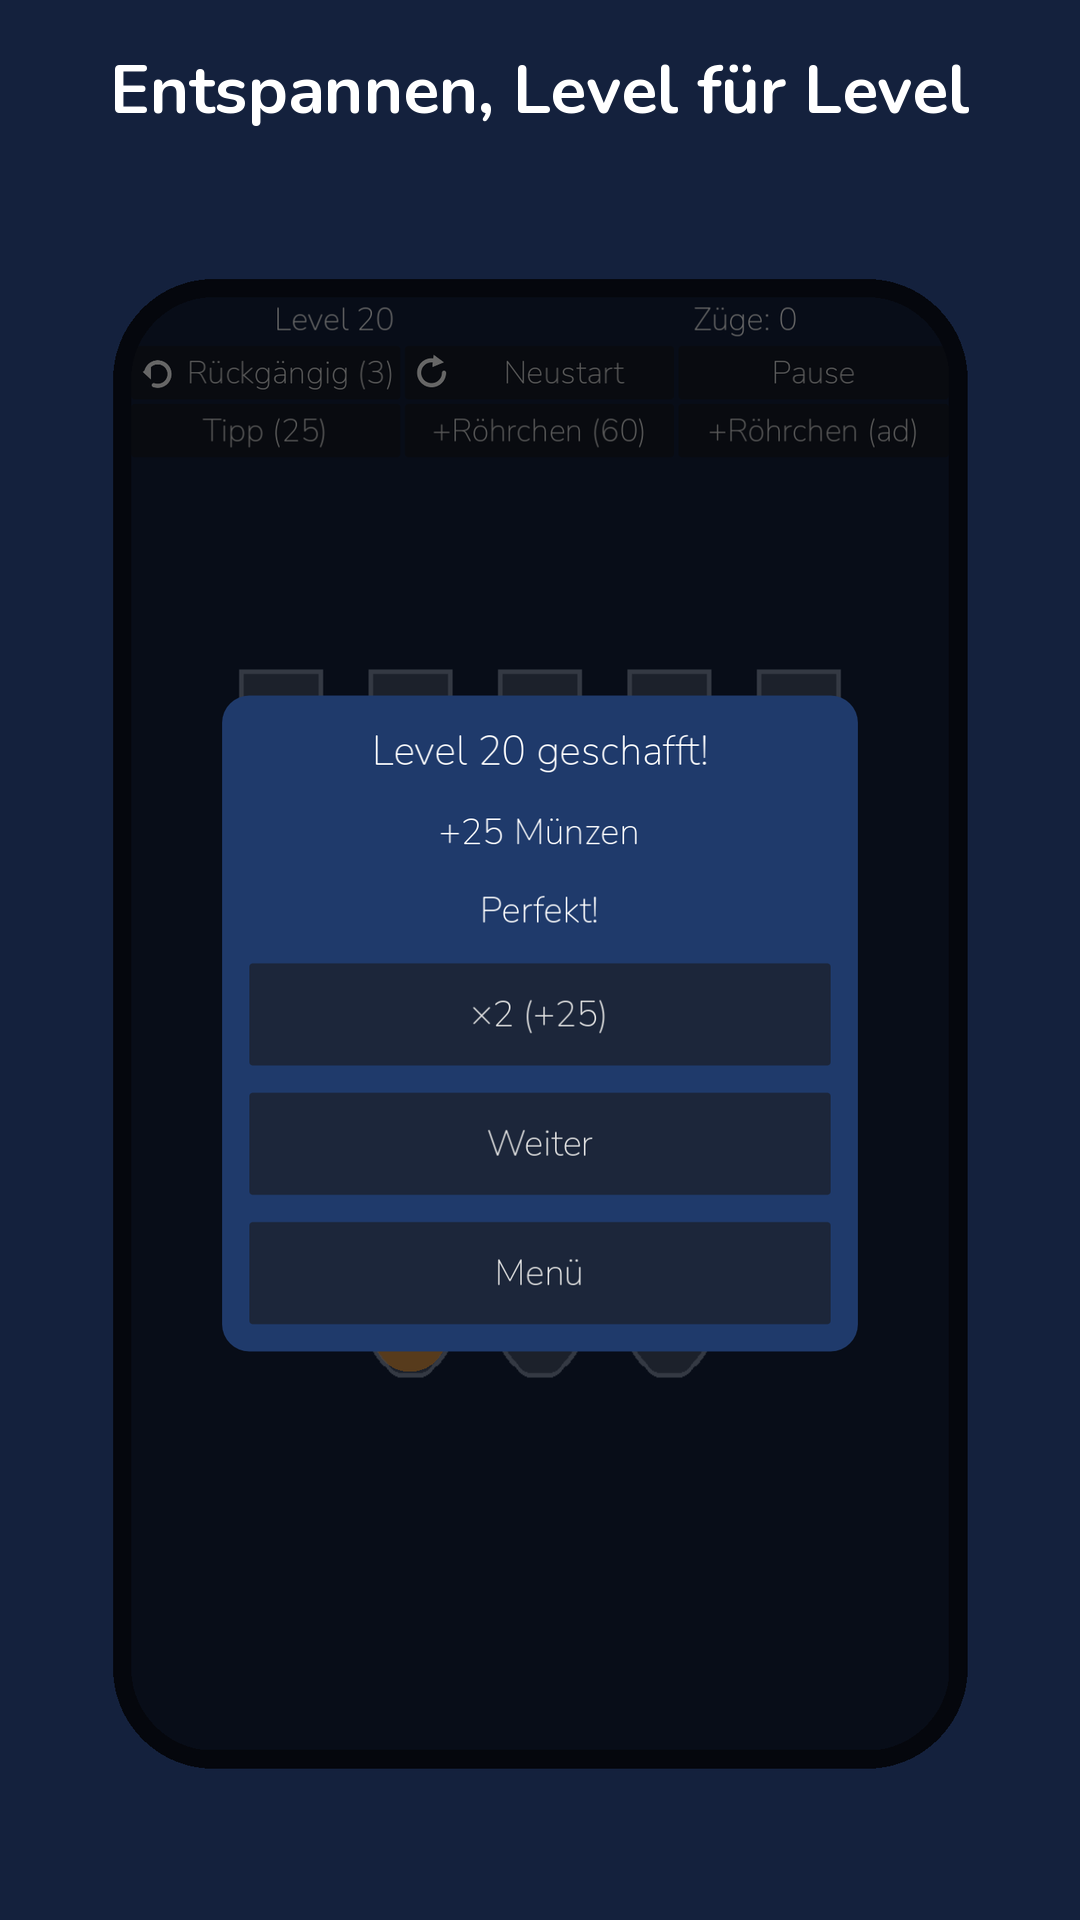
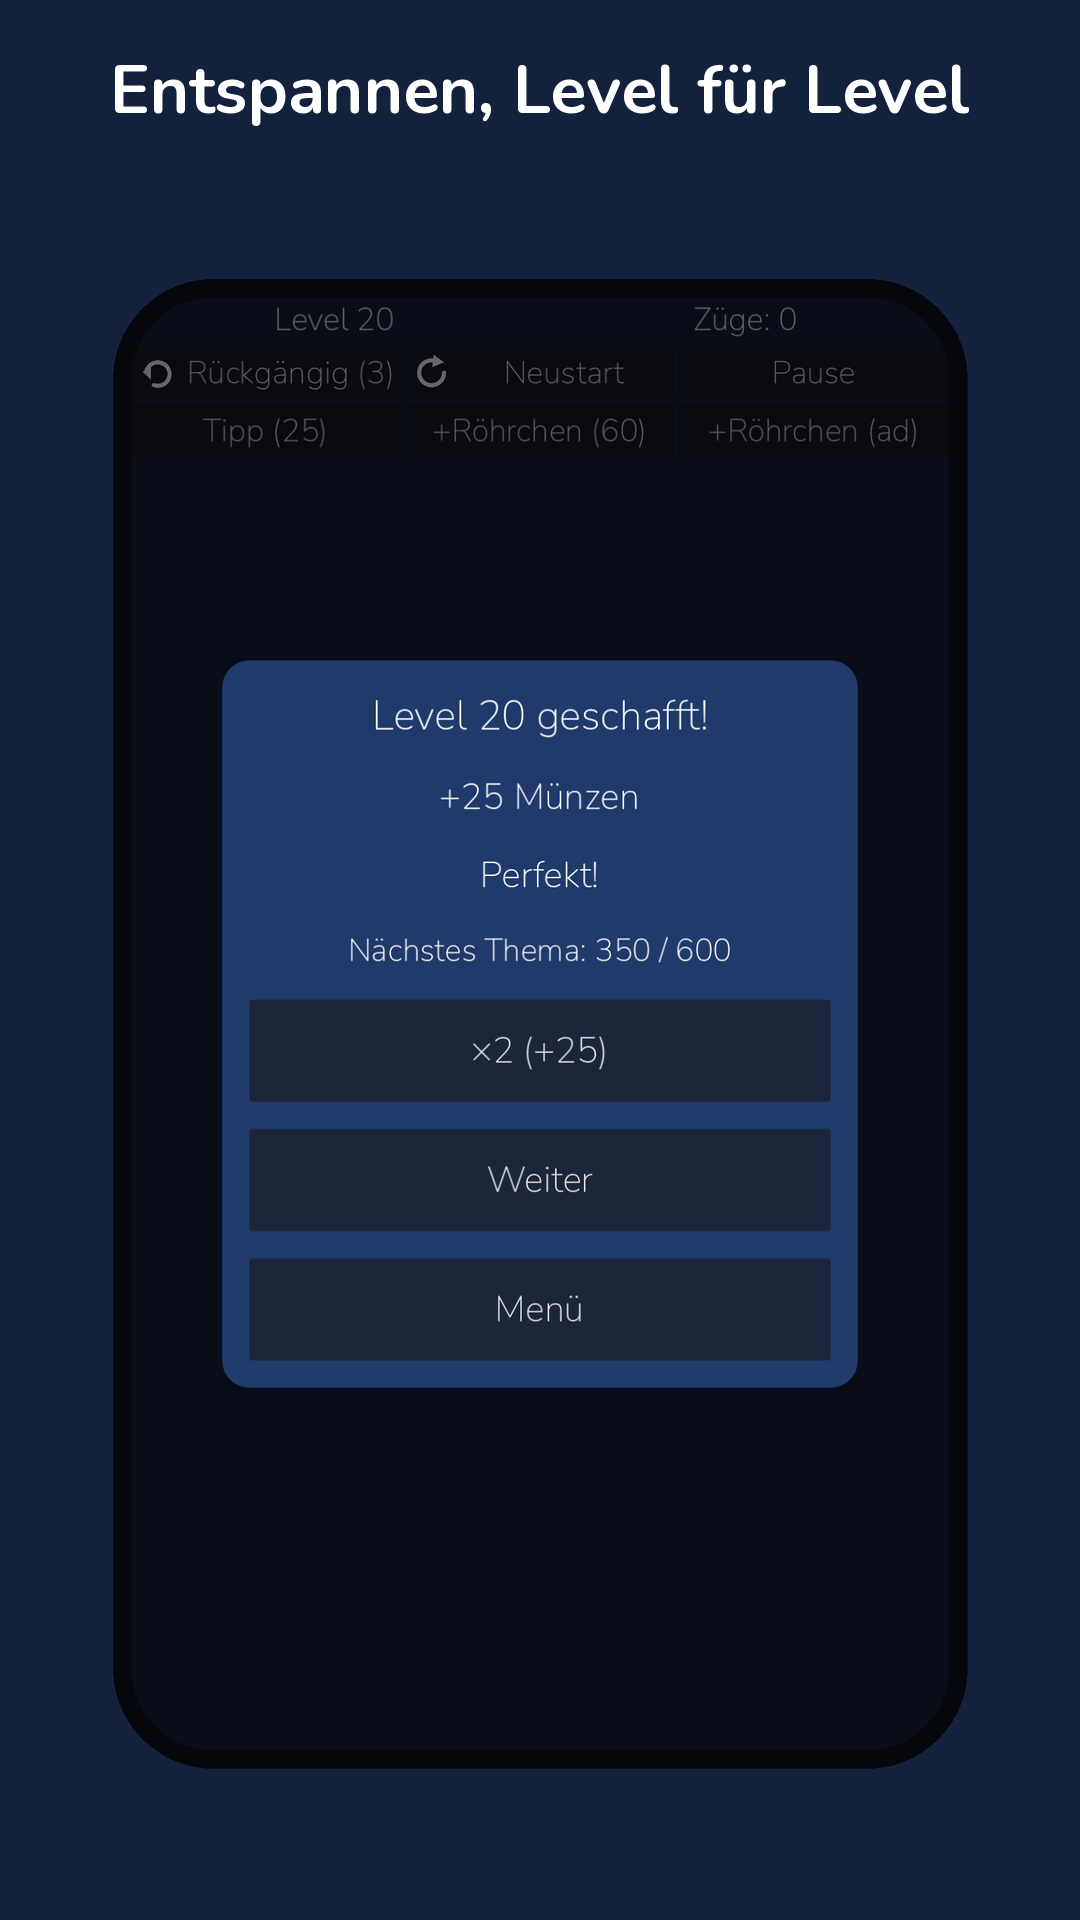
feat(T-096): LevelComplete — „Następny poziom: +1 kolor” albo postęp do motywu (#81)
* chore(T-085): start

Claude-Session: https://claude.ai/code/session_01Q1bYwEEaBcVVCpna3di32Y

* feat(T-085): ConsentFlow — błąd request_consent_info_update → consent:ump:error, start niespersonalizowany bez formularza; FakeConsentProvider.info_update_ok

Claude-Session: https://claude.ai/code/session_01Q1bYwEEaBcVVCpna3di32Y

* chore(T-085): review → PR #76, LOG

Claude-Session: https://claude.ai/code/session_01Q1bYwEEaBcVVCpna3di32Y

* chore: backlog refill #5 — Faza 5 prep III (6 zadań P1, 4 P2), T-075…T-084 do Done, GDD Analityka, STATUS sesji #8

Claude-Session: https://claude.ai/code/session_01Q1bYwEEaBcVVCpna3di32Y

* chore(T-093): start

Claude-Session: https://claude.ai/code/session_01Q1bYwEEaBcVVCpna3di32Y

* feat(T-093): pauza jako level:pause zamiast level:fail:quit; porzucony snapshot jako level:fail:abandon (App._discard_snapshot)

Claude-Session: https://claude.ai/code/session_01Q1bYwEEaBcVVCpna3di32Y

* chore(T-094): start

Claude-Session: https://claude.ai/code/session_01Q1bYwEEaBcVVCpna3di32Y

* feat(T-094): GameRound.elapsed_s (serializowany, sumowany przez wznowienia) + eventy level:complete:<perfect|normal>/undos/boosters

Claude-Session: https://claude.ai/code/session_01Q1bYwEEaBcVVCpna3di32Y

* chore(T-095): start

Claude-Session: https://claude.ai/code/session_01Q1bYwEEaBcVVCpna3di32Y

* feat(T-095): lejek FTUE — tutorial:step:<n> raz na rundę + tutorial:reset przy odznaczeniu/błędnym przelewie
[…]

Changed region(s): [[0.1833, 0.3438, 0.7944, 0.75]]

diff --git a/BACKLOG.md b/BACKLOG.md
@@ -36,7 +36,7 @@ Pętla bierze pierwsze `todo` z najwyższej sekcji. Zadania P0 muszą być `done
   KA: `Level` rejestruje `tutorial:step:1` (start tutorialu), `tutorial:step:2` (wejście w `PICK_TARGET`), `tutorial:step:3` (wejście w `FINISH`) — każdy tylko przy pierwszym osiągnięciu w rundzie (pole `_tutorial_max_step`; powtórne `PICK_SOURCE` przy kolejnych przelewach poziomu 1 nie generuje eventów); `tutorial:reset` (value = krok, z którego cofnięto) w `_on_tutorial_deselected`; istniejące `tutorial:done` bez zmian. Testy gdUnit4 z `FakeAnalyticsProvider` ≥ 3: poprawne przejście poziomu 1 → `step:1`, `step:2`, `step:3`, `done` dokładnie po 1× w tej kolejności; odznaczenie w kroku 2 → 1× `tutorial:reset`, bez ponownego `step:1`; poziom 1 przy `tutorial_done == true` → 0 eventów `tutorial:*`. Zgodne z GDD → Analityka `tutorial_step` (refill #5). `make check` zielone. ≤ ~50 linii.
   Skill: `godot-dev` + `analytics-review`
 
-- [ ] T-096 `todo` LevelComplete: komunikat „Następny poziom: +1 kolor” albo postęp do następnego motywu (GDD → Ekrany `LevelComplete`, Sesja hook 4)
+- [ ] T-096 `review` LevelComplete: komunikat „Następny poziom: +1 kolor” albo postęp do następnego motywu (GDD → Ekrany `LevelComplete`, Sesja hook 4) → PR #81
   KA: czysta funkcja statyczna (np. `LevelComplete.progress_message(level_no: int, mode: String, state: GameState) -> Dictionary {key, args}`, bez `Node`): kampania i `ContentGenerator.new().level_params(level_no + 1)["colors"] > level_params(level_no)["colors"]` → klucz `lc_new_color` (EN „Next level: +1 color”, PL „Następny poziom: +1 kolor”, DE „Nächstes Level: +1 Farbe”); w przeciwnym razie `lc_theme_progress` z `[state.coins, ThemeCatalog.next_theme_cost(state)]` (format jak `home_theme_progress`); wszystkie motywy kupione albo tryb daily → `{}` i etykieta ukryta. `LevelComplete.show_result` pokazuje etykietę pod monetami (po ×2 odświeżona). Testy gdUnit4 ≥ 5: poziom 7 → `lc_new_color` (asercja wyliczona z `level_params`, nie z literału); poziom 8 → `lc_theme_progress`; wszystkie motywy kupione → `{}`; daily → `{}`; po `watch_double_coins` monety w etykiecie zaktualizowane. Nowe klucze objęte testem kompletności EN/PL/DE (T-023) i testem „PL/DE ≠ EN” (T-076). Kadr 02 (`make screenshots`, EN/PL/DE) odświeżony i obejrzany (tekst nie nachodzi na przyciski). `make check` zielone. ≤ ~100 linii + PNG.
   Skill: `godot-dev`
 
@@ -114,6 +114,9 @@ Pętla bierze pierwsze `todo` z najwyższej sekcji. Zadania P0 muszą być `done
 - [ ] T-103 `todo` `test_content_generator.gd` → `test_levels_1_to_200_solvable_and_fast`: twardy próg `max_ms <= 500` bywa przekroczony na obciążonej maszynie CI (odkryte w T-093: 543 ms, przy ponownym uruchomieniu OK) — mierzyć medianę/percentyl albo ustawić próg z `GameConfig`/stałej z marginesem; nie osłabiać asercji „rozwiązywalny”. Skill: godot-test
 
 - [ ] T-104 `todo` `Level.elapsed_s` liczy też czas w tle bez zabicia aplikacji (FOCUS_OUT robi snapshot = flush, ale po FOCUS_IN `_round_bound_at` nie jest przestawiane) — przy `NOTIFICATION_APPLICATION_FOCUS_IN` ponownie zakotwiczyć licznik (np. `Level.resume_clock()` wołane z `App._notification`) + test z wstrzykniętym zegarem (odkryte w T-094, QA). Skill: godot-dev
+
+- [ ] T-105 `todo` Kadr sklepowy 02 (`aso_win`): panel LevelComplete (po T-096 wyższy o linię) zakrywa prawie całą planszę — probówki niewidoczne; rozważyć fixture z planszą przesuniętą/mniejszym panelem albo półprzezroczysty panel w kadrze (odkryte w T-096). Skill: aso
+- [ ] T-106 `todo` `make screenshots` przy każdym uruchomieniu zmienia bajty `03_daily.png` (EN/PL/DE) i `05_themes.png` (PL/DE) bez zmian w kodzie — niedeterminizm (data? kolejność?); ustalić źródło, żeby PR-y nie niosły przypadkowych PNG (odkryte w T-096). Skill: aso
 
 ## Pytania do Huberta
 - T-027: wejście do Sklepu ze StuckPanel podmieniało scenę (postęp ruchów przepadał) — rozwiązane w T-049: Shop jako overlay nad Level, powrót do tej samej rundy i trybu (campaign/daily).

diff --git a/docs/LOG.md b/docs/LOG.md
@@ -136,3 +136,4 @@ Godot 4.4.1 → 4.7.2, gdUnit4 → v7, target API 36 (ADR-008). make check zielo
 - P1: T-093 `Level.quit_level` → tylko `level:pause` (moves), `Level.level_id_for` static; `App._discard_snapshot()` (Fail z trybem/id snapshotu + `level:fail:abandon`, raz, potem czyści) w 4 miejscach (resume false campaign/daily, snapshot innego trybu przy „Graj”/Poziomie dnia); 2 testy przepisane + 4 nowe (346 gdUnit4); QA OK z sugestiami, playtest 200/200 → PR #78 (auto-merge, depends on #77). Inbox: T-103.
 - P1: T-094 `GameRound.elapsed_s` (to_dict/from_dict: brak/zły typ/ujemne → 0, `result()`), `Level._flush_elapsed()` idempotentne przy `snapshot()` i wygranej (`_round_bound_at` z `_bind_round`, `restart` nie zeruje), 3 design eventy `level:complete:<perfect|normal>` (sekundy) / `:undos` / `:boosters`; 7 testów (353 gdUnit4); QA PASS, playtest 200/200 → PR #79 (auto-merge, depends on #78). Inbox: T-104.
 - P1: T-095 `Level._track_tutorial_step()` (`tutorial:step:N`, N = Step+1, raz na rundę przez `_tutorial_max_step`), `tutorial:reset` (value = krok) przy odznaczeniu i błędnym przelewie; `tutorial:done` bez zmian; 4 testy z FakeAnalyticsProvider w `test_tutorial_flow.gd` (357 gdUnit4); QA PASS (statyczny) → PR #80 (auto-merge, depends on #79).
+- P1: T-096 `LevelComplete.progress_message` (static: „+1 kolor” gdy `level_params(L+1).colors` rośnie, inaczej `lc_theme_progress` [coins, next_theme_cost], daily/wszystkie motywy → {}), `ProgressLabel` w `.tscn`, klucze EN/PL/DE, `Level` przekazuje progress przy wygranej i po ×2, fixture kadru 02; 6 testów (363 gdUnit4); kadr 02 PL obejrzany (panel zakrywa planszę → Inbox T-105); QA PASS → PR #81 (auto-merge, depends on #80). Inbox: T-105, T-106.
